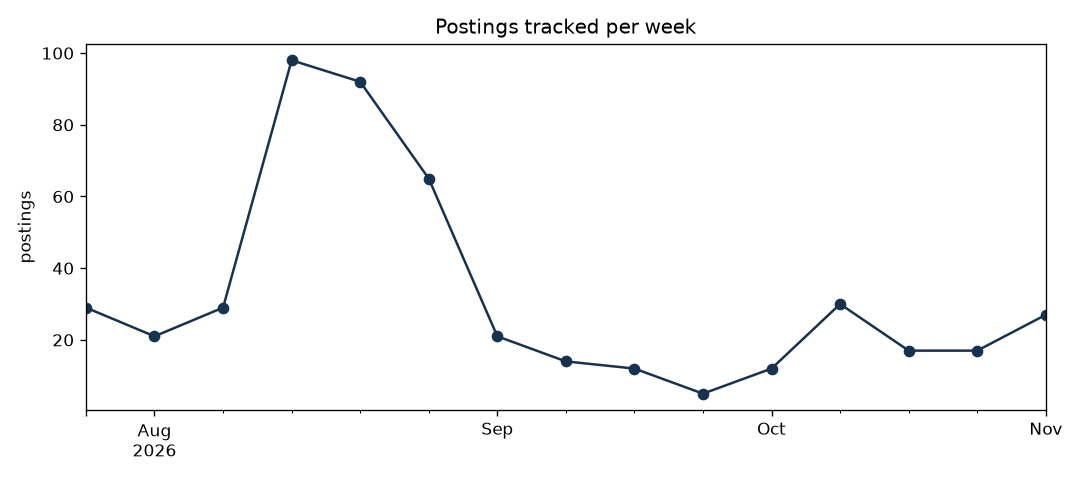
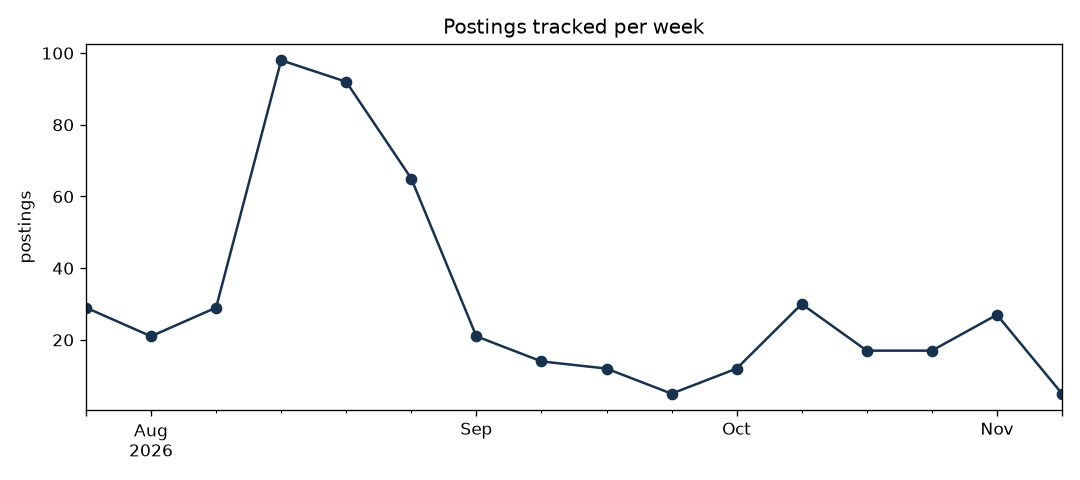
Daily data update

diff --git a/README.md b/README.md
@@ -13,13 +13,13 @@ reporting end to end.
 ## Dashboard
 
 <!-- dashboard:start -->
-*Last updated: 2026-11-09 22:52 UTC*
+*Last updated: 2026-11-10 20:12 UTC*
 
 | | |
 |---|---|
-| Postings tracked | 489 |
-| Companies | 402 |
-| New since last run | 4 |
+| Postings tracked | 494 |
+| Companies | 407 |
+| New since last run | 5 |
 | Data/ML-related share | 32% |
 
 ![Postings per week](reports/figures/postings_per_week.png)
